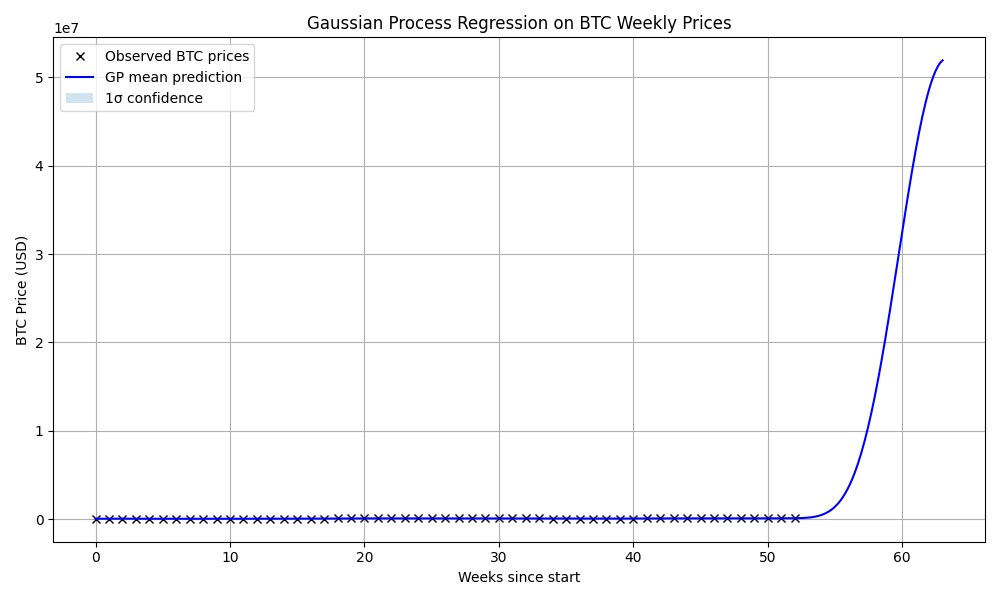
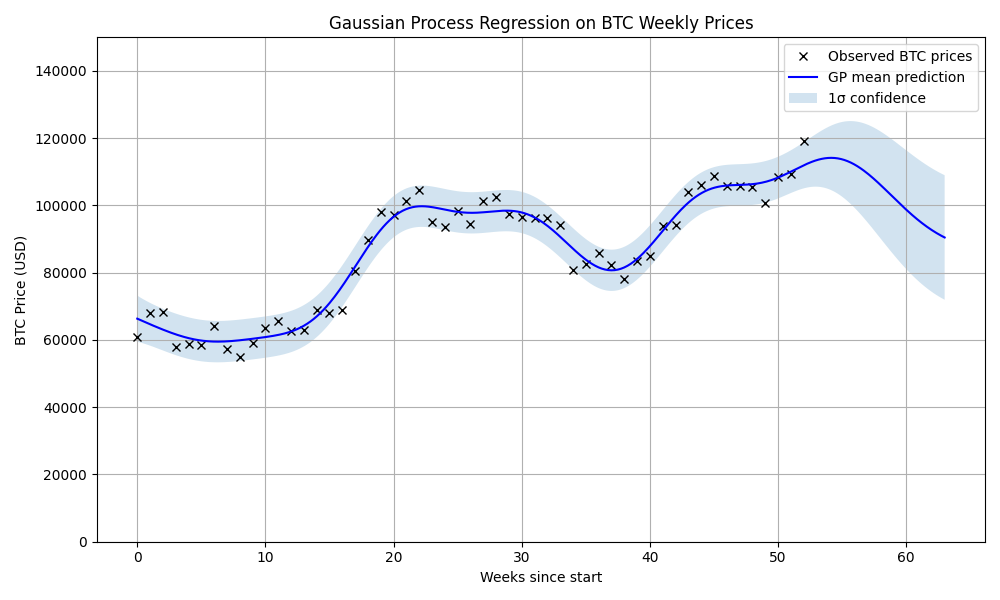
plot with noise

diff --git a/gp_model.py b/gp_model.py
@@ -6,16 +6,31 @@ import numpy as np
 import matplotlib.pyplot as plt
 from sklearn.gaussian_process import GaussianProcessRegressor
 from sklearn.gaussian_process.kernels import RBF, ConstantKernel as C
+from sklearn.gaussian_process.kernels import RBF, ConstantKernel as C, WhiteKernel
 import time
 
 # --- Load Data ---
 df = pd.read_csv('data/btc_weekly_prices.csv')
+
+print("First few rows of CSV data:")
+print(df.head())
+
 X = np.arange(len(df)).reshape(-1, 1)  # weeks as integer indices
 y = df['price_usd'].values
 
-# --- Define Kernel with Fixed Parameters ---
-# Optional: wrap RBF in ConstantKernel if you want fixed amplitude
-kernel = C(1.0, constant_value_bounds="fixed") * RBF(length_scale=5.0, length_scale_bounds="fixed")
+print("\nX (input weeks):")
+print(X.ravel())
+
+print("\ny (BTC prices):")
+print(y)
+
+print(f"\nX shape: {X.shape}, y shape: {y.shape}")
+print(f"y min: {np.min(y):.2f}, y max: {np.max(y):.2f}")
+
+# --- Define Kernel
+kernel = C(1.0, constant_value_bounds="fixed") * \
+         RBF(length_scale=5.0, length_scale_bounds="fixed") + \
+         WhiteKernel(noise_level=1e-1, noise_level_bounds="fixed")
 
 # --- Define GP Regressor ---
 gp = GaussianProcessRegressor(kernel=kernel, optimizer=None, normalize_y=True)
@@ -28,10 +43,11 @@ X_pred = np.linspace(0, len(X) + 10, 500).reshape(-1, 1)
 y_pred, y_std = gp.predict(X_pred, return_std=True)
 
 end = time.time()
-print(f"GP fit + predict completed in {end - start:.3f} seconds")
+print(f"\nGP fit + predict completed in {end - start:.3f} seconds")
 
 # --- Plot ---
 plt.figure(figsize=(10, 6))
+plt.ylim(0, 150000)
 plt.plot(X, y, 'kx', label='Observed BTC prices')
 plt.plot(X_pred, y_pred, 'b-', label='GP mean prediction')
 plt.fill_between(X_pred.ravel(), y_pred - y_std, y_pred + y_std, alpha=0.2, label='1σ confidence')
